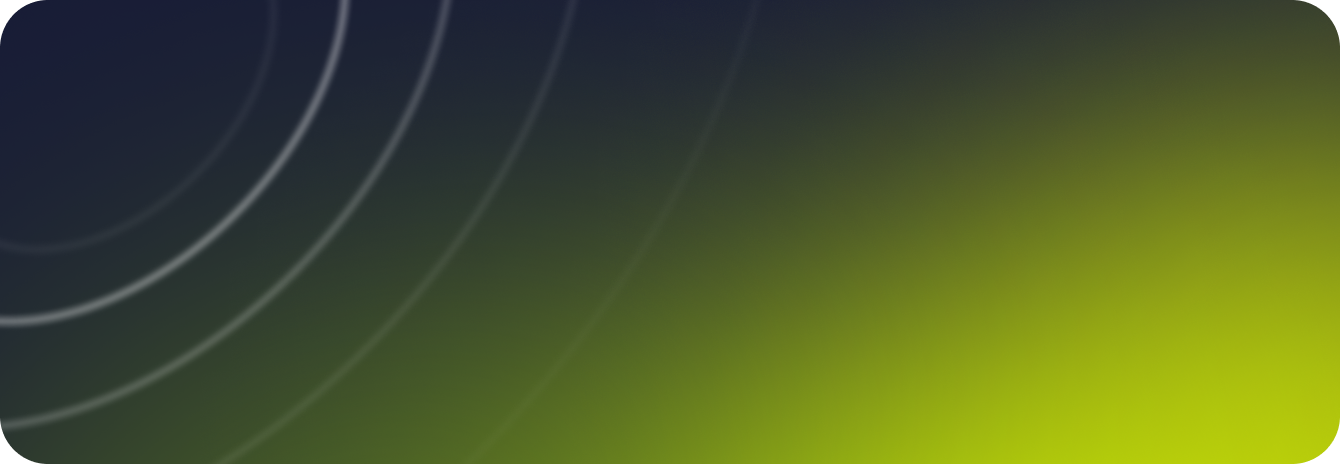
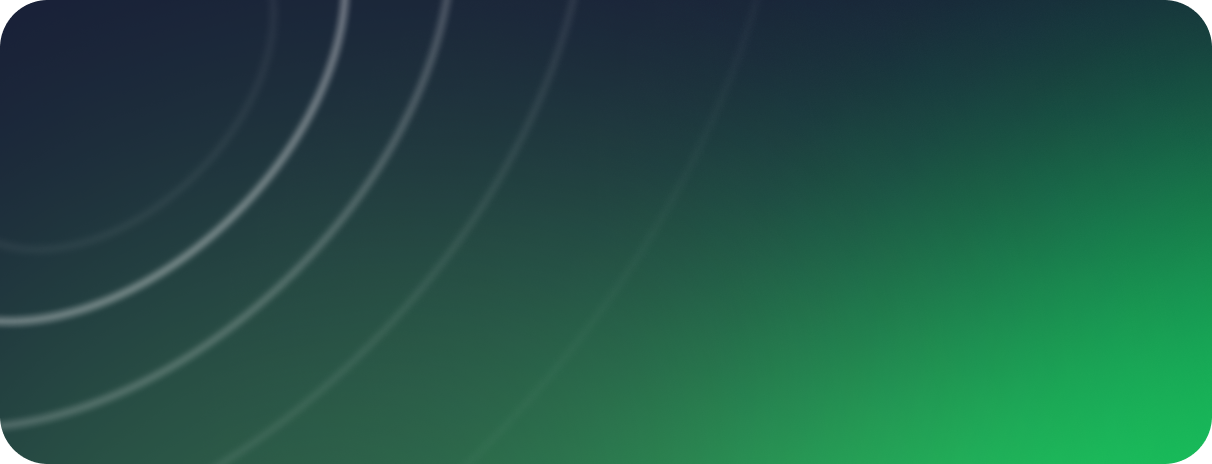
color fixes

diff --git a/apps/g3-miniapp/src/app/(home)/_icons/IconLogin.tsx b/apps/g3-miniapp/src/app/(home)/_icons/IconLogin.tsx
@@ -1,4 +1,4 @@
-import { type SVGProps } from "react";
+import { type SVGProps } from 'react';
 const SvgComponent = (props: SVGProps<SVGSVGElement>) => (
   <svg
     viewBox="0 0 20 20"
@@ -8,11 +8,11 @@ const SvgComponent = (props: SVGProps<SVGSVGElement>) => (
   >
     <path
       d="M14 1.6665H11.8333C9.16667 1.6665 7.5 3.33317 7.5 5.99984V9.37484H11.2L9.475 7.64984C9.35 7.52484 9.29167 7.3665 9.29167 7.20817C9.29167 7.04984 9.35 6.8915 9.475 6.7665C9.71667 6.52484 10.1167 6.52484 10.3583 6.7665L13.15 9.55817C13.3917 9.79984 13.3917 10.1998 13.15 10.4415L10.3583 13.2332C10.1167 13.4748 9.71667 13.4748 9.475 13.2332C9.23333 12.9915 9.23333 12.5915 9.475 12.3498L11.2 10.6248H7.5V13.9998C7.5 16.6665 9.16667 18.3332 11.8333 18.3332H13.9917C16.6583 18.3332 18.325 16.6665 18.325 13.9998V5.99984C18.3333 3.33317 16.6667 1.6665 14 1.6665Z"
-      fill="#171B36"
+      fill="currentColor"
     />
     <path
       d="M2.2915 9.375C1.94984 9.375 1.6665 9.65833 1.6665 10C1.6665 10.3417 1.94984 10.625 2.2915 10.625H7.49984V9.375H2.2915Z"
-      fill="#171B36"
+      fill="currentColor"
     />
   </svg>
 );

diff --git a/apps/g3-miniapp/src/app/(home)/_components/Header/index.tsx b/apps/g3-miniapp/src/app/(home)/_components/Header/index.tsx
@@ -1,11 +1,11 @@
-"use client";
-import { Button, Flex } from "@radix-ui/themes";
-import { useTonConnectModal } from "@tonconnect/ui-react";
-import Image from "next/image";
-import Link from "next/link";
-import { useIsAuthenticated } from "../../../_providers/useAuth";
-import { IconLogin } from "../../_icons/IconLogin";
-import { LoggedButton } from "./LoggedButton";
+'use client';
+import { Button, Flex } from '@radix-ui/themes';
+import { useTonConnectModal } from '@tonconnect/ui-react';
+import Image from 'next/image';
+import Link from 'next/link';
+import { useIsAuthenticated } from '../../../_providers/useAuth';
+import { IconLogin } from '../../_icons/IconLogin';
+import { LoggedButton } from './LoggedButton';
 
 export const Header = () => {
   const { isAuthenticated } = useIsAuthenticated();

diff --git a/apps/g3-miniapp/src/styles/globals.scss b/apps/g3-miniapp/src/styles/globals.scss
@@ -1,5 +1,5 @@
-@import "tailwindcss/base";
-@import "@radix-ui/themes/styles.css";
+@import 'tailwindcss/base';
+@import '@radix-ui/themes/styles.css';
 
 /* @tailwind base; */
 @tailwind components;
@@ -14,5 +14,17 @@
   /* .rt-BaseButton */
   .rt-BaseButton {
     @apply text-xl font-bold leading-7 text-slate-900;
+  }
+
+  .rt-BaseButton:where(.rt-variant-solid) {
+    @apply bg-[#22F573] transition;
+
+    &:hover {
+      @apply bg-[#06B94B];
+    }
+
+    &[data-disabled] {
+      @apply bg-slate-100 text-slate-300;
+    }
   }
 }

diff --git a/apps/g3-miniapp/src/app/(home)/LeaderboardItem.tsx b/apps/g3-miniapp/src/app/(home)/LeaderboardItem.tsx
@@ -56,7 +56,7 @@ export const LeaderboardItem = ({
 
         <div className="mt-1">
           <div className="inline-flex h-11 items-end justify-start gap-1.5">
-            <div className="text-4xl font-bold text-[#BACF00]">
+            <div className="text-4xl font-bold text-[#06B94B]">
               {Intl.NumberFormat().format(shareCount)}
             </div>
             <div className="text-sm font-medium leading-tight tracking-tight text-slate-900">

diff --git a/apps/g3-miniapp/src/app/(home)/MyCurrentPosition.tsx b/apps/g3-miniapp/src/app/(home)/MyCurrentPosition.tsx
@@ -19,7 +19,7 @@ export const MyCurrentPosition = () => {
   return (
     <Spinner loading={isPending}>
       {isSuccess && (
-        <div className="rounded-lg bg-[#FCFFE5] p-3">
+        <div className="rounded-lg bg-[#F0FFF5] p-3">
           <div className="text-base font-bold leading-normal text-slate-900">
             Your current position:
           </div>
